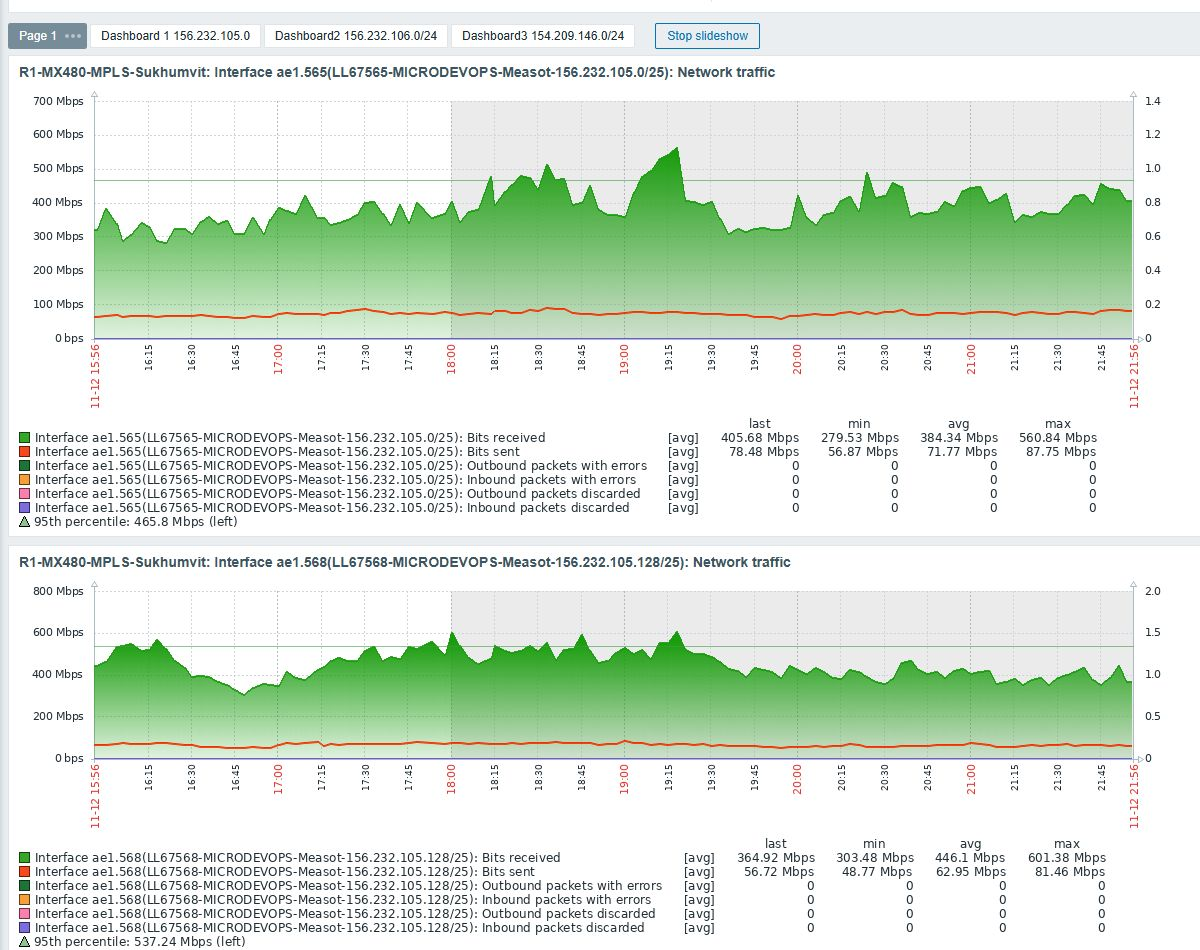
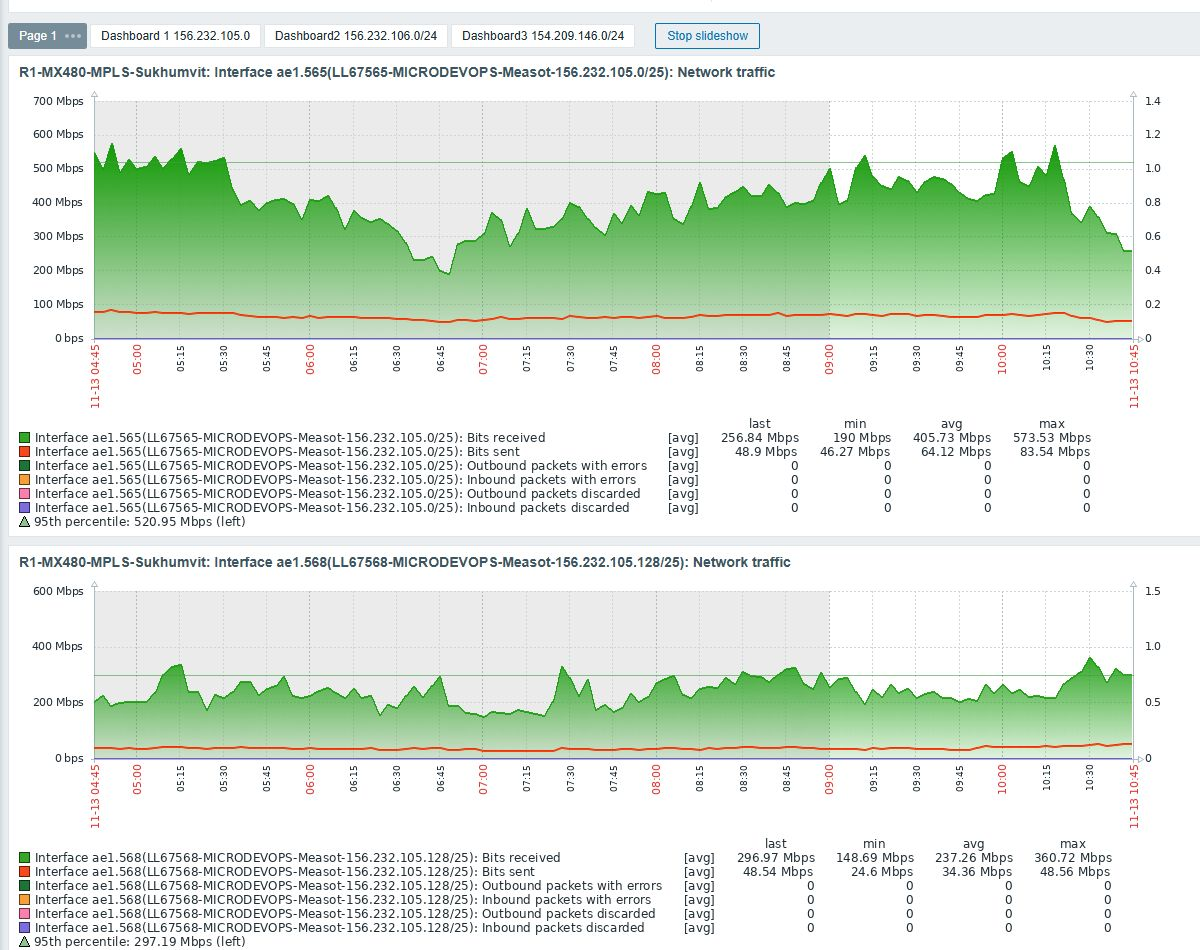
ปรับเวลาเป็น 2 วิและกำหนดเวลารีพอต

diff --git a/index.js b/index.js
@@ -88,7 +88,7 @@ function broadcastScheduledMessage(message, uploadResult11, uploadResult12, uplo
     );
 }
 
-cron.schedule('* * * * *', async () => {
+cron.schedule('0 0,3,6,9,12,15,18,21 * * *', async () => {
 
     const email = "LL67565";
     const password = "Admin@67565";
@@ -128,7 +128,7 @@ cron.schedule('* * * * *', async () => {
             await page.goto("http://zabbix.cabletv.co.th/zabbix/zabbix.php?action=dashboard.view&dashboardid=388");
 
             // รอ 7 วินาทีก่อนแคปหน้าจอ
-            await delay(7000);
+            await delay(2000);
 
             // แคปหน้าจอ
             await page.screenshot({ path: "zabbix-dashboard.png" });
